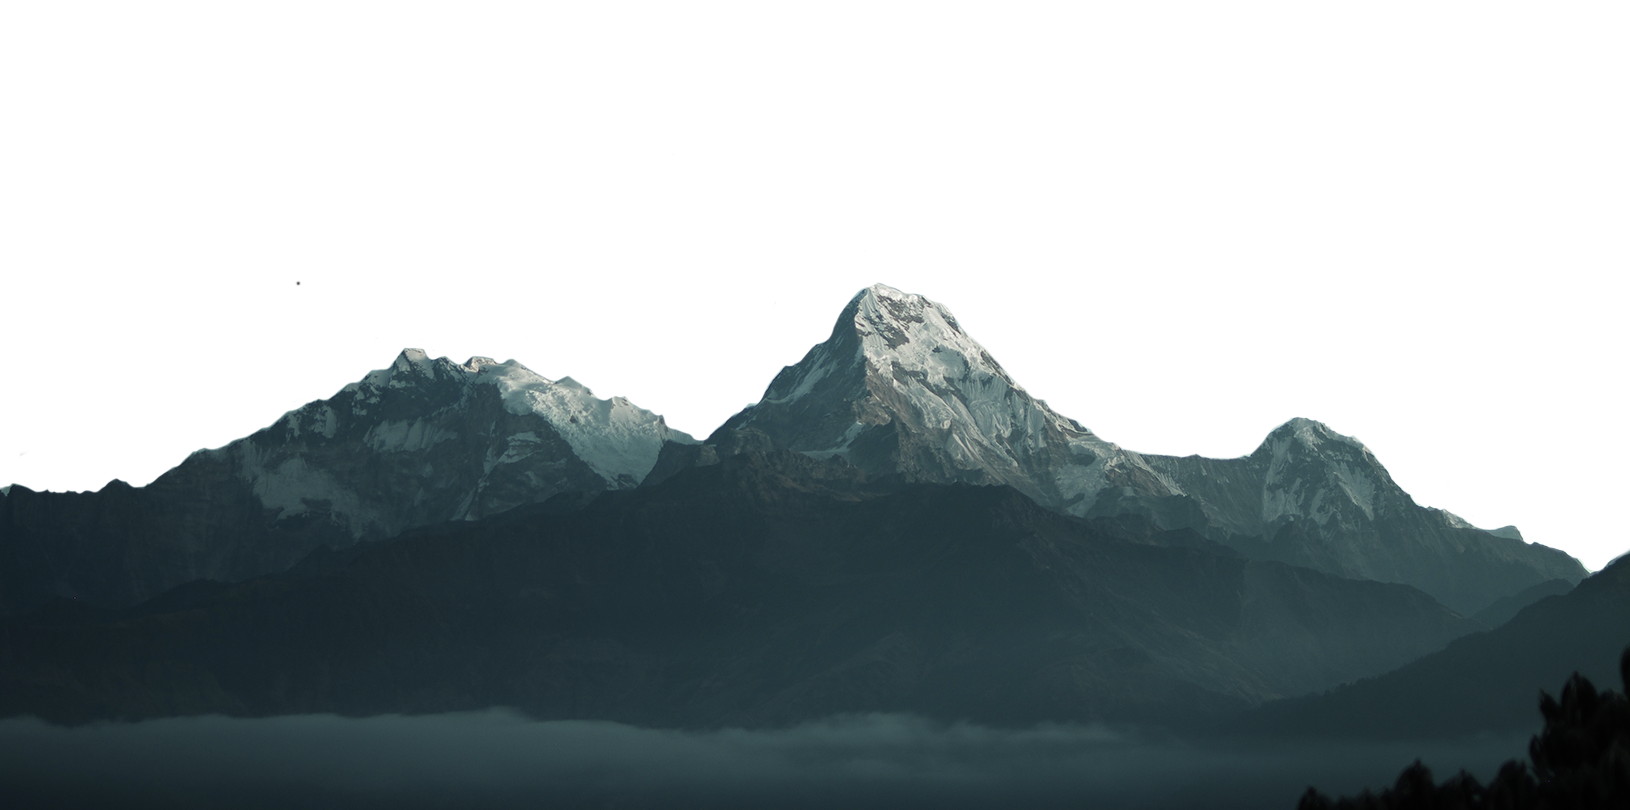
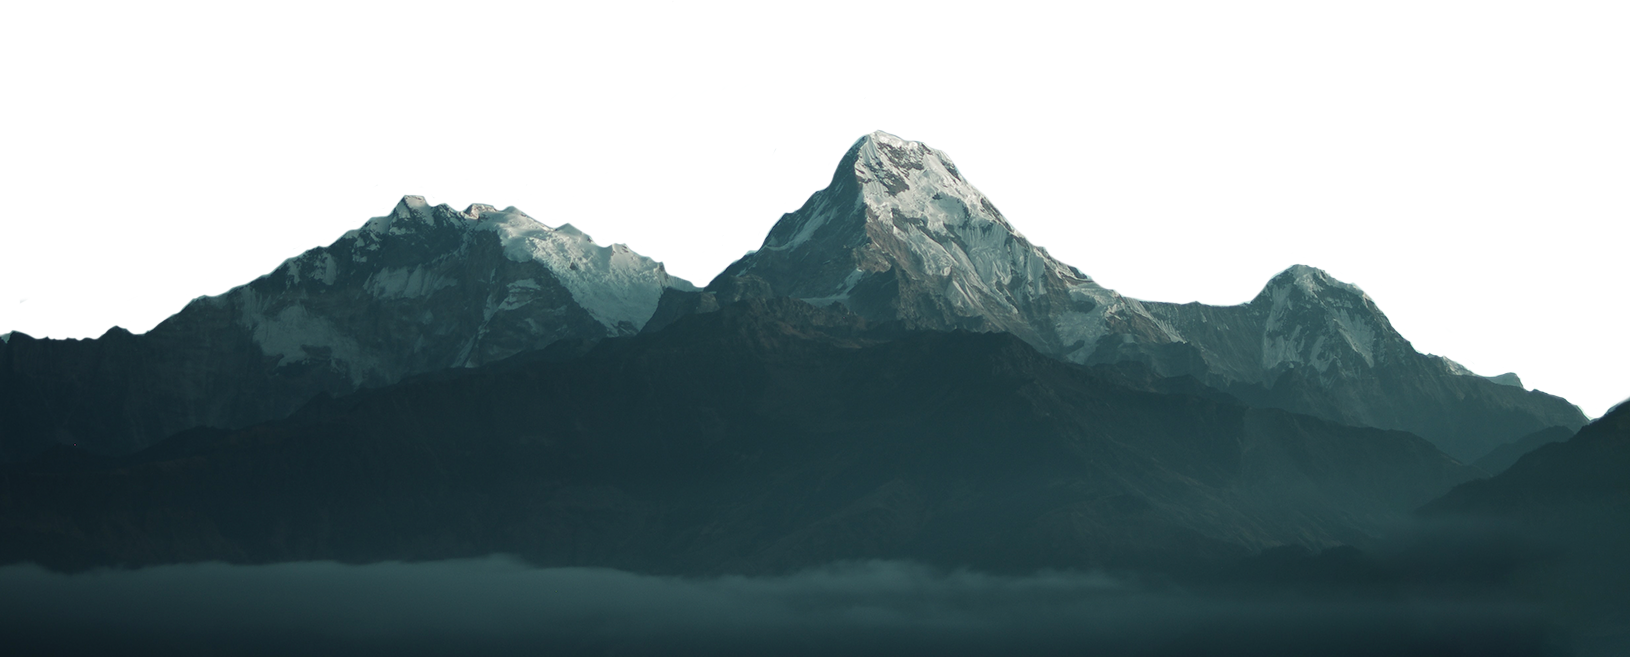
front layer added

diff --git a/index.html b/index.html
@@ -5,6 +5,7 @@
   <meta http-equiv="X-UA-Compatible" content="IE=edge">
   <meta name="viewport" content="width=device-width, initial-scale=1.0">
   <link rel="stylesheet" href="css/styles.css">
+  <link rel="stylesheet" href="css/burguer.css">
   <link rel="stylesheet" href="css/mediaqueries.css">
 
   <link rel="preconnect" href="https://fonts.googleapis.com">
@@ -18,32 +19,46 @@
 </head>
 <body>
 
-  <section>
-    <div id="scene">
-      <div class="bg">
-        <img src="/img/bg.png" alt="" >
-      </div>
+  <div class="bg">
+    <img src="/img/bg.png" alt="" >
+  </div>
 
-      <div class="p p-1"></div>
-      <div class="p p-2"></div>
-      <div class="p p-3"></div>
-      <div class="p p-4"></div>
-      <div class="p p-5"></div>
-
-      <div class="mountain">
-        <img src="/img/Mountains.png" alt="" data-speed='1.5' class="layer">
-      </div>
-
-    </div>
-</section>
   
 
+  
+  <main>
+    <section>
+      <div id="scene">
+  
+        <div class="menu-btn">
+          <div class="menu-btn__burguer"></div>
+        </div>
+        
+        <div class="p p-1"></div>
+        <div class="p p-2"></div>
+        <div class="p p-3"></div>
+        <div class="p p-4"></div>
+        <div class="p p-5"></div>
+          
+        <div class="mountain">
+          <img src="/img/Mountains.png" alt="" data-speed='1.5' class="layer">
+        </div>
 
-<div class="presentation">
-  <h4>Hi, I'm</h4>
-  <h1>Juan Alvarez</h1>
-</div>
-    
+
+        <div class="frente">
+          <img src="/img/bottom.png" alt="">
+        </div>
+        
+      </div>
+    </section>
+  
+    <div class="presentation">
+      <h4>Hi, I'm</h4>
+      <h1>Juan Alvarez</h1>
+    </div>
+  </main>
+
 </body>
  <script src="/js/parallax-bg.js"></script>
+ <script src="/js/burguer.js"></script>
   </html>

diff --git a/css/burguer.css b/css/burguer.css
@@ -1,0 +1,52 @@
+
+.menu-btn{
+  position: absolute;
+  display: flex;
+  justify-content: center;
+  align-items: center;
+  width: 80px;
+  height: 80px;
+  cursor: pointer;
+  transition: all .5s ease-in-out;
+}
+
+.menu-btn__burguer{
+  width: 50px;
+  height: 6px;
+  background: #fff;
+  border-radius: 5px;
+  box-shadow: 0 2px 5px rgba(255,101,47,.2);
+  transition: all .5s ease-in-out;
+}
+
+.menu-btn__burguer::before,
+.menu-btn__burguer::after{
+  content: '';
+  position: absolute;
+  width: 50px;
+  height: 6px;
+  background: #fff;
+  border-radius: 5px;
+  box-shadow: 0 2px 5px rgba(255,101,47,.2);
+  transition: all .5s ease-in-out;
+}
+
+.menu-btn__burguer::before{
+transform: translateY(-16px);
+}
+
+.menu-btn__burguer::after{
+  transform: translateY(16px);
+  }
+
+.menu-btn.open .menu-btn__burger {
+  transform: translateX(-50px);
+  background: transparent;
+  box-shadow: none;
+}
+.menu-btn.open .menu-btn__burger::before {
+  transform: rotate(45deg) translate(35px, -35px);
+}
+.menu-btn.open .menu-btn__burger::after {
+  transform: rotate(-45deg) translate(35px, 35px);
+} 

diff --git a/css/styles.css b/css/styles.css
@@ -1,7 +1,12 @@
+*{
+  scroll-behavior: smooth;
+  scrollbar-width: none;
+}
+
 body{
   padding: 0;
   margin: 0;
-  background: white;
+  background: url(/img/bg.png);
 }
 
 
@@ -17,7 +22,7 @@ section{
 .mountain img{
   position: absolute;
   width:102%;
-  height: 60vh;
+  height: 55vh;
   bottom: -1vw;
   left: -1vw;
   filter: brightness(0.7);
@@ -27,6 +32,15 @@ section{
   position: absolute;
   width:100%;
   height: 100%;
+  bottom: 0;
+  filter: brightness(0.7);
+  /*filter: brightness(0.9);*/
+}
+
+.frente img{
+  position: absolute;
+  width:100%;
+  height: 18vh;
   bottom: 0;
   filter: brightness(0.7);
   /*filter: brightness(0.9);*/
@@ -141,3 +155,4 @@ section{
       opacity: 0;
     }
 }
+

diff --git a/css/mediaqueries.css b/css/mediaqueries.css
@@ -6,6 +6,12 @@
   .presentation h4{
     font-size: 0.8rem;
   }
+
+  .mountain img{
+    width: 101%;
+    height: 40vh;
+  }
+
 }
 
 /* Small devices (portrait tablets and large phones, 600px and up) */
@@ -19,7 +25,7 @@
 
   .mountain img{
     width: 101%;
-    height: 55vh;
+    height: 40vh;
   }
 
   .p-1{
@@ -71,7 +77,7 @@
 @media only screen and (min-width: 768px) and (max-width: 992px){
   .mountain img{
     width: 101%;
-    height: 55vh;
+    height: 50vh;
   }
 }
 

diff --git a/prueba.html b/prueba.html
@@ -1,0 +1,17 @@
+<!DOCTYPE html>
+<html lang="en">
+<head>
+  <meta charset="UTF-8">
+  <meta http-equiv="X-UA-Compatible" content="IE=edge">
+  <meta name="viewport" content="width=device-width, initial-scale=1.0">
+
+  <link rel="stylesheet" href="css/burguer.css">
+  <title>Document</title>
+</head>
+<body style="background-color: black;">
+  <div class="menu-btn">
+    <div class="menu-btn__burguer"></div>
+  </div>
+</body>
+<script src="/js/burguer.js"></script>
+</html>

diff --git a/js/burguer.js b/js/burguer.js
@@ -1,0 +1,11 @@
+const menuBtn = document.querySelector('.menu-btn');
+let menuOpen = false;
+menuBtn.addEventListener('click', () => {
+  if(!menuOpen) {
+    menuBtn.classList.add('open');
+    menuOpen = true;
+  } else {
+    menuBtn.classList.remove('open');
+    menuOpen = false;
+  }
+});
